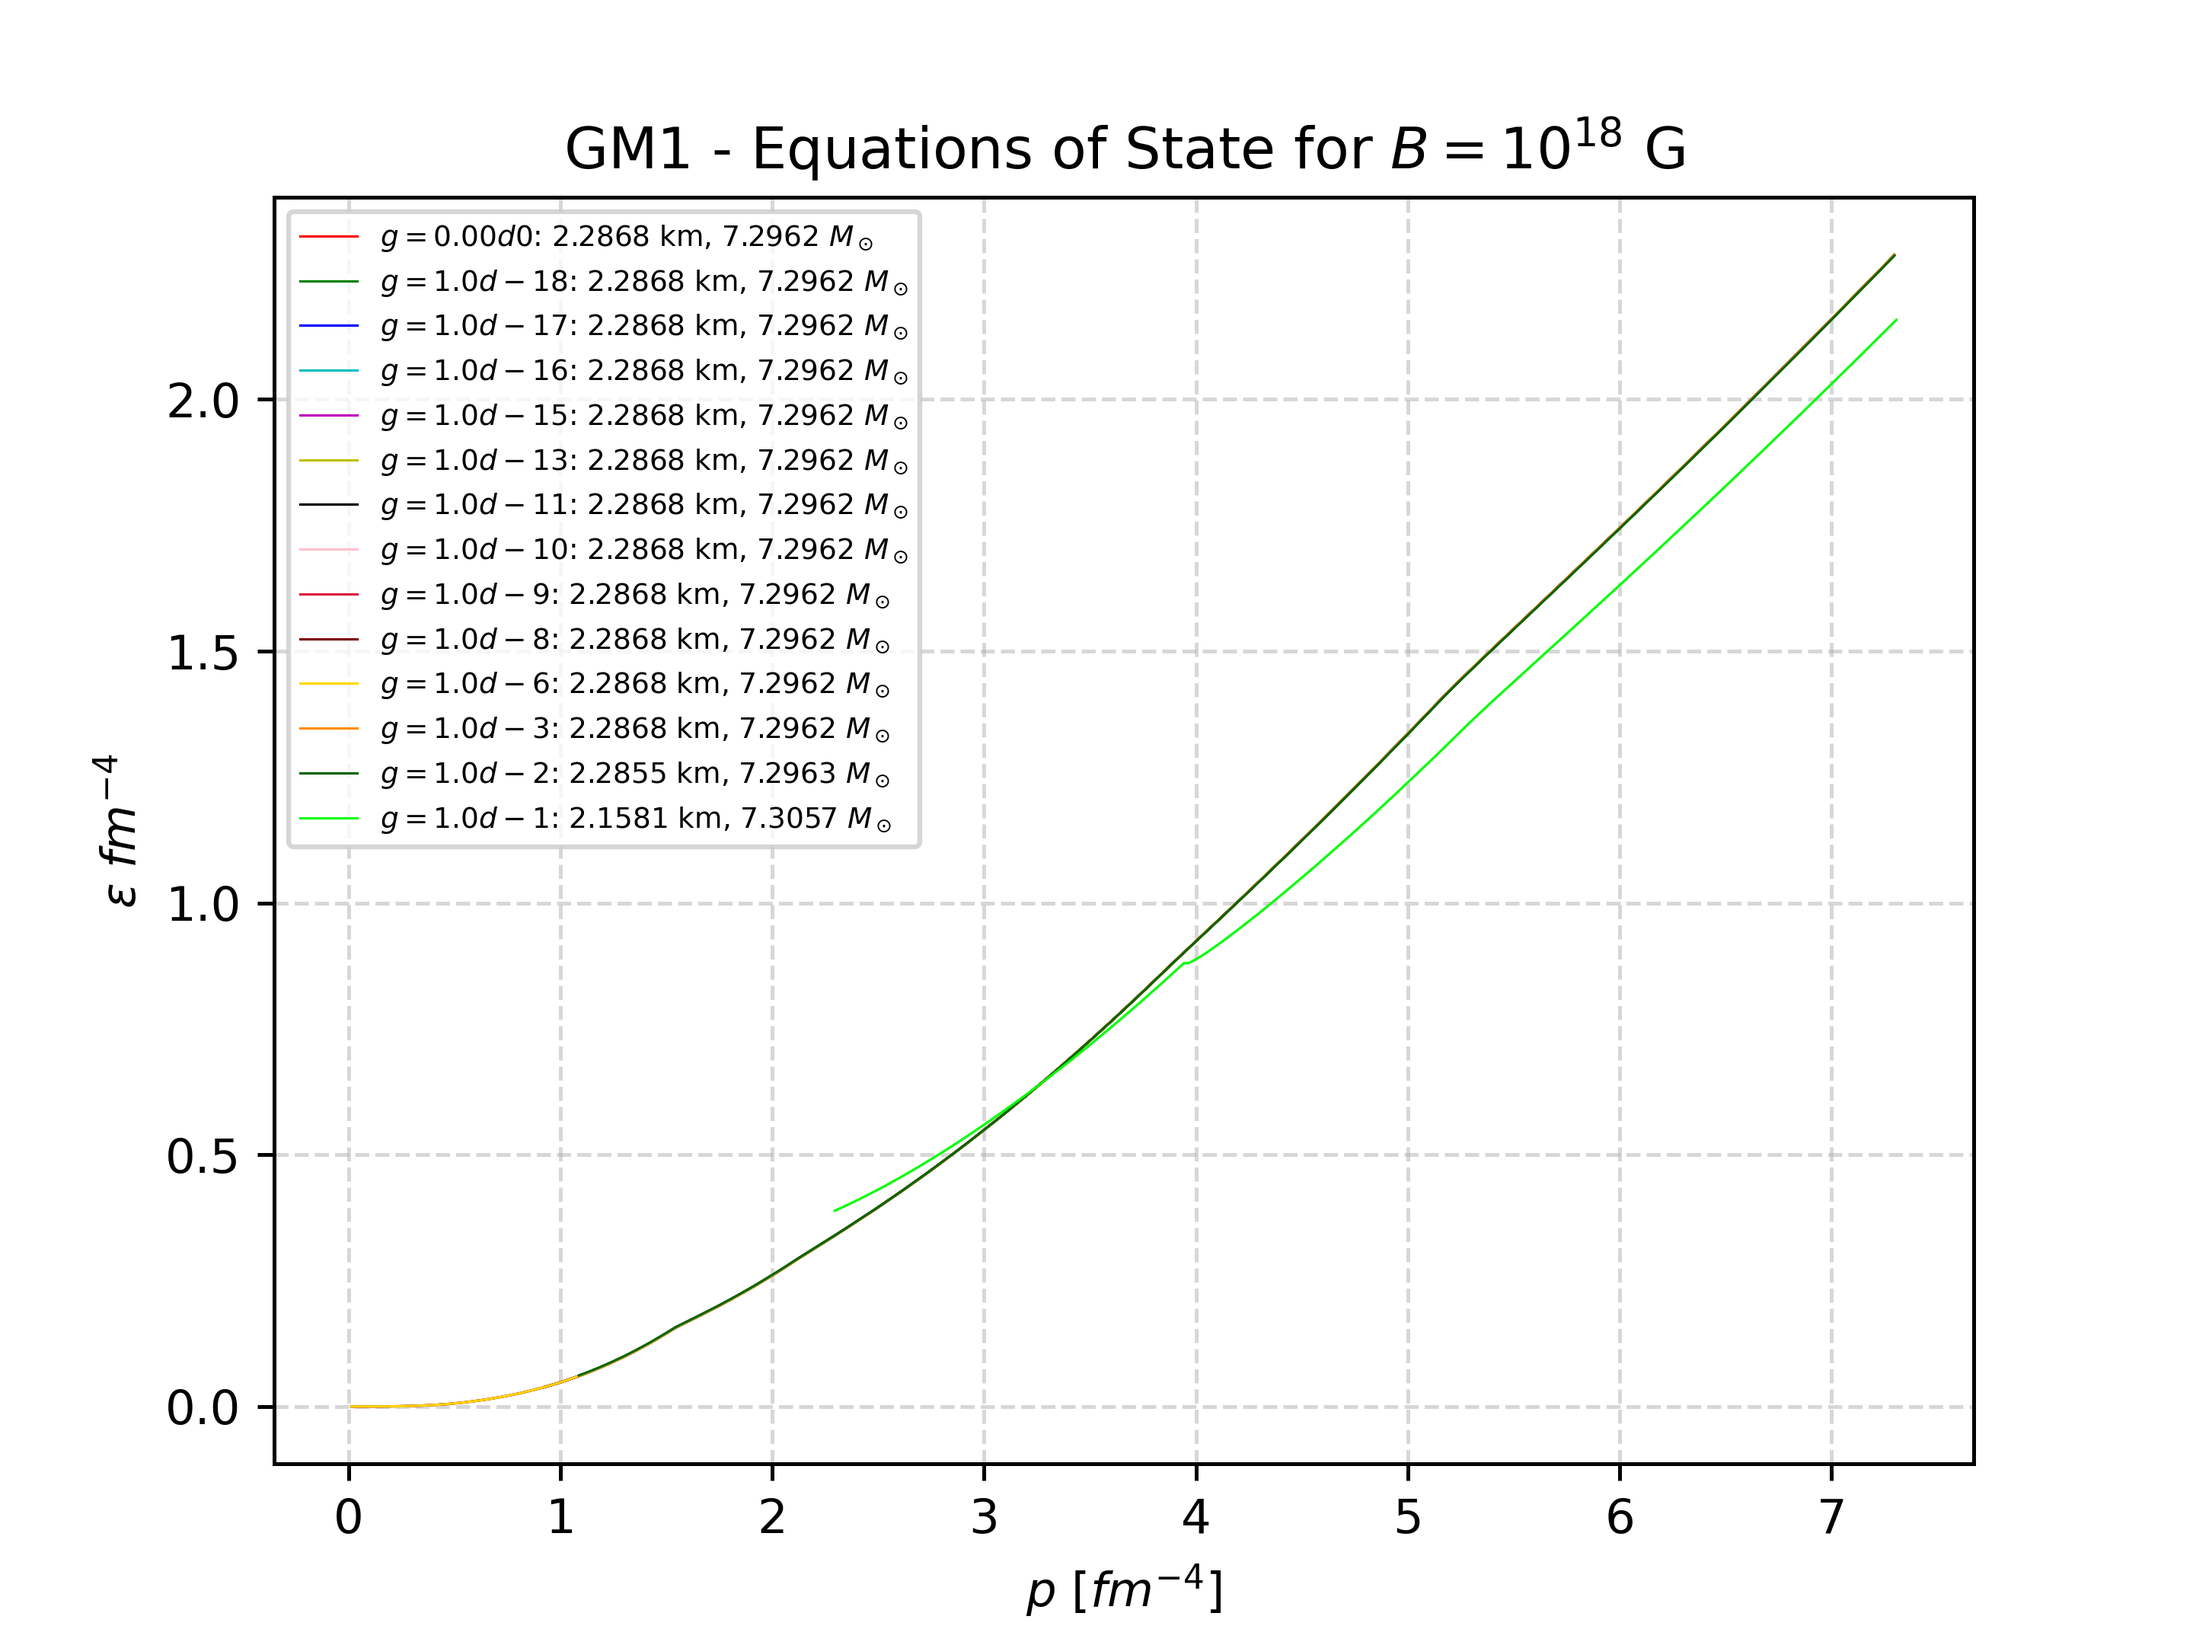
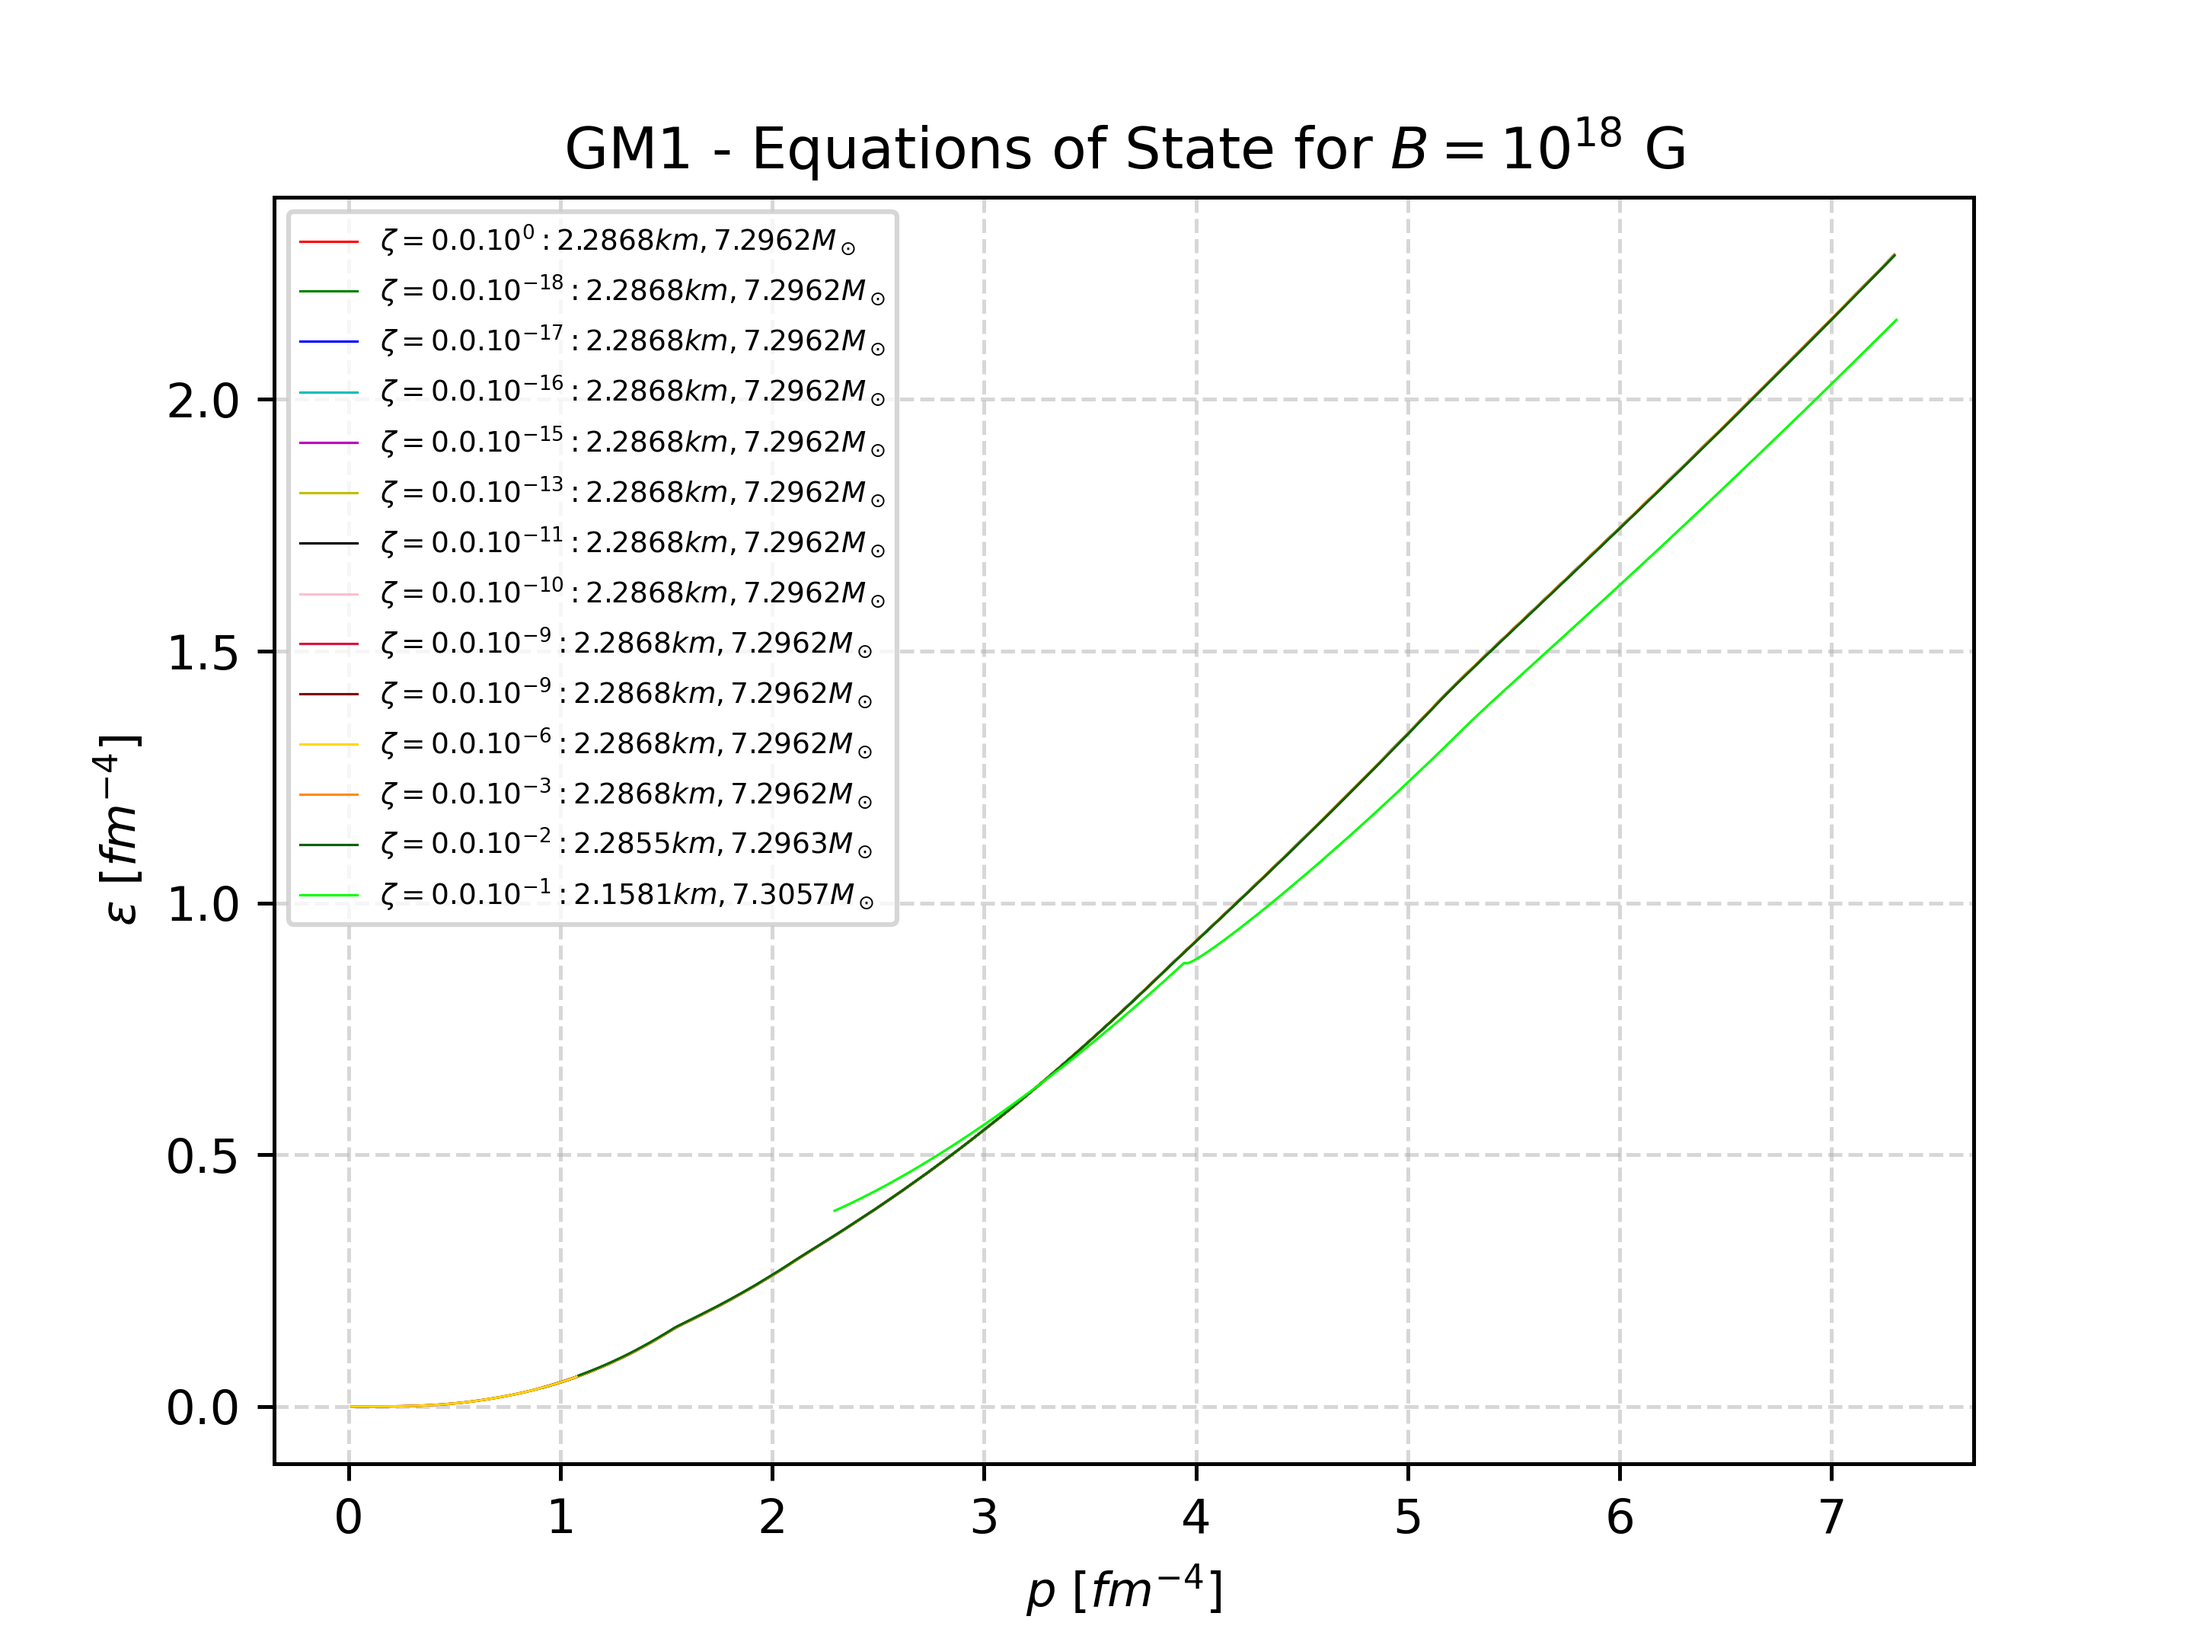
Added title option and zoomed plots

Changed region(s): [[0.125, 0.1241, 0.4375, 0.5583], [0.0312, 0.4963, 0.0625, 0.5583]]

diff --git a/src/classes.py b/src/classes.py
@@ -11,7 +11,8 @@ from time import sleep
 class Data:
     def __init__(self, values, magnetic_field="0.0", model="GM1"):
         print(datetime.now(), " - Preparando dados.")
-        self.values = values
+        self.rawValues = values
+        self.readValues()
         self.magnetic_field = magnetic_field
         self.model = model
         self.data = []
@@ -25,12 +26,22 @@ class Data:
         self.colors = colors1 = ["r", "g", "b", "c", "m", "y", "k", "pink", 'crimson', 'maroon', 'gold', 'darkorange', 'darkgreen', 'lime', 'gray']
         for value in self.values:
             self.data.append(DataValues(value))
+
         print(datetime.now(), " - Produzinho gráficos.")
         self.plottingEOS()
         self.plottingTOV()
         self.plottingPnB()
+        self.plottingZoomedEOS()
+        self.plottingZoomedTOV()
         print(datetime.now(), " - Abrindo diretório de saída.")
         open_directory_in_file_explorer(f"{main_directory}/output")
+
+    def readValues(self):
+        self.values = []
+        self.valuesTitles = []
+        for v in self.rawValues:
+            self.values.append(v.split(", ")[0].split("\n")[0])
+            self.valuesTitles.append(v.split(", ")[1])
 
     def plottingEOS(self):
         plt.clf()
@@ -39,11 +50,11 @@ class Data:
             max_m = value.max_m
             max_r = value.r_max_m
             csi = value.title
-            plt.plot(value.e, value.p, label=f"$g={csi}$: {max_r:.4f} km, {max_m:.4f} $M_\odot$", color=color, linewidth=self.linewidth)
+            plt.plot(value.e, value.p, label=f"$\zeta ={self.valuesTitles[self.values.index(value.title)]} : {max_r:.4f} km, {max_m:.4f} M_\odot$", color=color, linewidth=self.linewidth)
         plt.legend(fontsize=self.legend_fontsize)
         plt.grid(linestyle=self.grid_linestyle, alpha=self.grid_alpha)
         plt.title(f"{self.model} - Equations of State for {self.magnetic_field} G")
-        plt.ylabel("$\epsilon$ $fm^{-4}$")
+        plt.ylabel("$\epsilon$ $[fm^{-4}]$")
         plt.xlabel("$p$ $[fm^{-4}]$")
         plt.savefig("output/eos.png", dpi=450)
         print(datetime.now(), " - Gráfico das equações de estado foi gerado.")
@@ -55,13 +66,13 @@ class Data:
             max_m = value.max_m
             max_r = value.r_max_m
             csi = value.title
-            plt.plot(value.r, value.m, label=f"$g={csi}$: {max_r:.4f} km, {max_m:.4f} $M_\odot$", color=color, linewidth=self.linewidth)
+            plt.plot(value.r, value.m, label=f"$\zeta ={self.valuesTitles[self.values.index(value.title)]} : {max_r:.4f} km, {max_m:.4f} M_\odot$", color=color, linewidth=self.linewidth)
             plt.plot(value.r_max_m, value.max_m, marker=".", color=color, markersize=10)
         plt.legend(fontsize=self.legend_fontsize)
         plt.title(f"{self.model} - Mass-Radius Diagram for {self.magnetic_field} G")
-        plt.xlabel("$Radius$ $(km)$")
+        plt.xlabel("$Radius$ $[km]$")
         plt.grid(linestyle=self.grid_linestyle, alpha=self.grid_alpha)
-        plt.ylabel("$Mass (M_{\odot})$")
+        plt.ylabel("$Mass [M_{\odot}]$")
         plt.savefig("output/mr.png", dpi=450)
         print(datetime.now(), " - Gráfico massa-raio foi gerado.")
     
@@ -72,17 +83,49 @@ class Data:
             max_r = value.r_max_m
             csi = value.title
             color = self.colors[self.values.index(value.title)]
-            plt.plot(value.nB, value.p, label=f"$g={csi}$: {max_r:.4f} km, {max_m:.4f} $M_\odot$", color=color, linewidth=self.linewidth)
+            plt.plot(value.nB, value.p, label=f"$\zeta ={self.valuesTitles[self.values.index(value.title)]} : {max_r:.4f} km, {max_m:.4f} M_\odot$", color=color, linewidth=self.linewidth)
         plt.legend(fontsize=self.legend_fontsize)
         plt.grid(linestyle=self.grid_linestyle, alpha=self.grid_alpha)
         plt.title(f"{self.model} - Pressure-Baryon Number Density relation for {self.magnetic_field} G")
         plt.xlabel("$n_B \;\; [fm^{-3}]$")
-        plt.ylabel("$p \;\;[fm^{-4}$")
+        plt.ylabel("$p \;\;[fm^{-4}]$")
         plt.savefig("output/pnb.png", dpi=450)
         print(datetime.now(), " - Gráfico pressão-densidade de número bariônico foi gerado.")
 
-    def plottingPopulation(self):
-        pass
+    def plottingZoomedEOS(self):
+        plt.clf()
+        for value in self.data:
+            color = self.colors[self.values.index(value.title)]
+            max_m = value.max_m
+            max_r = value.r_max_m
+            csi = value.title
+            plt.plot(value.e, value.p, label=f"$\zeta ={self.valuesTitles[self.values.index(value.title)]} : {max_r:.4f} km, {max_m:.4f} M_\odot$", color=color, linewidth=self.linewidth)
+        plt.legend(fontsize=self.legend_fontsize)
+        plt.grid(linestyle=self.grid_linestyle, alpha=self.grid_alpha)
+        plt.title(f"{self.model} - Equations of State for {self.magnetic_field} G")
+        plt.ylabel("$\epsilon$ $[fm^{-4}]$")
+        plt.xlabel("$p$ $[fm^{-4}]$")
+        plt.xlim(0.7, 0.9)
+        plt.ylim(0.9, 1.5)
+        plt.savefig("output/zoomed_eos.png", dpi=450)
+        print(datetime.now(), " - Gráfico das equações de estado com zoom foi gerado.")
+
+    def plottingZoomedTOV(self):
+        plt.clf()
+        for value in self.data:
+            color = self.colors[self.values.index(value.title)]
+            max_m = value.max_m
+            max_r = value.r_max_m
+            csi = value.title
+            plt.plot(value.r, value.m, label=f"$\zeta ={self.valuesTitles[self.values.index(value.title)]} : {max_r:.4f} km, {max_m:.4f} M_\odot$", color=color, linewidth=self.linewidth)
+            plt.plot(value.r_max_m, value.max_m, marker=".", color=color, markersize=10)
+        plt.legend(fontsize=self.legend_fontsize)
+        plt.title(f"{self.model} - Mass-Radius Diagram for {self.magnetic_field} G")
+        plt.xlabel("$Radius$ $[km]$")
+        plt.grid(linestyle=self.grid_linestyle, alpha=self.grid_alpha)
+        plt.ylabel("$Mass [M_{\odot}]$")
+        plt.savefig("output/zoomed_mr.png", dpi=450)
+        print(datetime.now(), " - Gráfico massa-raio com zoom foi gerado.")
     
     def __str__(self):
         return f"Data({self.values})"
